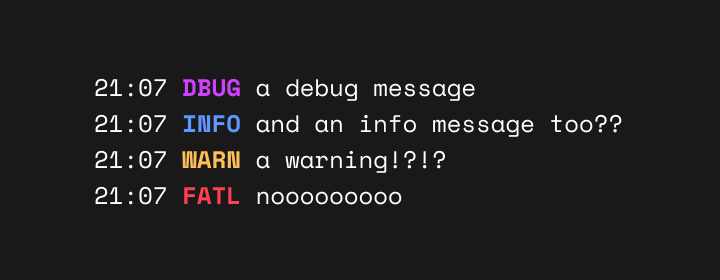
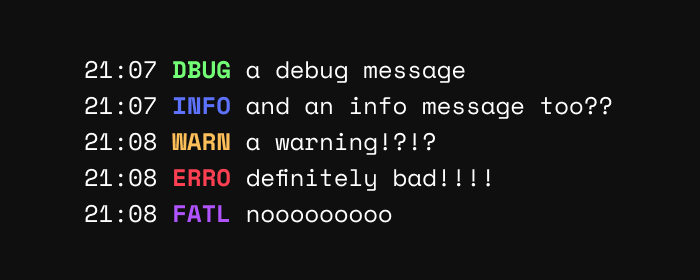
add error log

Changed region(s): [[0.12, 0.2, 0.87, 0.8]]

diff --git a/log.go b/log.go
@@ -7,10 +7,11 @@ import (
 )
 
 const rset = "\033[0m"
-const dbug = "\033[35;1m"
-const info = "\033[34;1m"
+const dbug = "\033[34;1m"
+const info = "\033[32;1m"
 const warn = "\033[33;1m"
-const fatl = "\033[31;1m"
+const erro = "\033[31;1m"
+const fatl = "\033[35;1m"
 
 func timestamp() string {
 	return time.Now().Format("15:04")
@@ -26,12 +27,17 @@ func Info(msg interface{}) {
 	fmt.Fprintln(os.Stderr, timestamp(), info+"INFO"+rset, msg)
 }
 
-// Warn logs errors/warning messages
+// Warn logs warning messages
 func Warn(msg interface{}) {
 	fmt.Fprintln(os.Stderr, timestamp(), warn+"WARN"+rset, msg)
 }
 
-// Fatl logs an error message and calls os.Exit(1), exiting the program
+// Erro logs error messages
+func Erro(msg interface{}) {
+	fmt.Fprintln(os.Stderr, timestamp(), erro+"ERRO"+rset, msg)
+}
+
+// Fatl logs a message and calls os.Exit(1), exiting the program
 func Fatl(msg interface{}) {
 	fmt.Fprintln(os.Stderr, timestamp(), fatl+"FATL"+rset, msg)
 	os.Exit(1)
